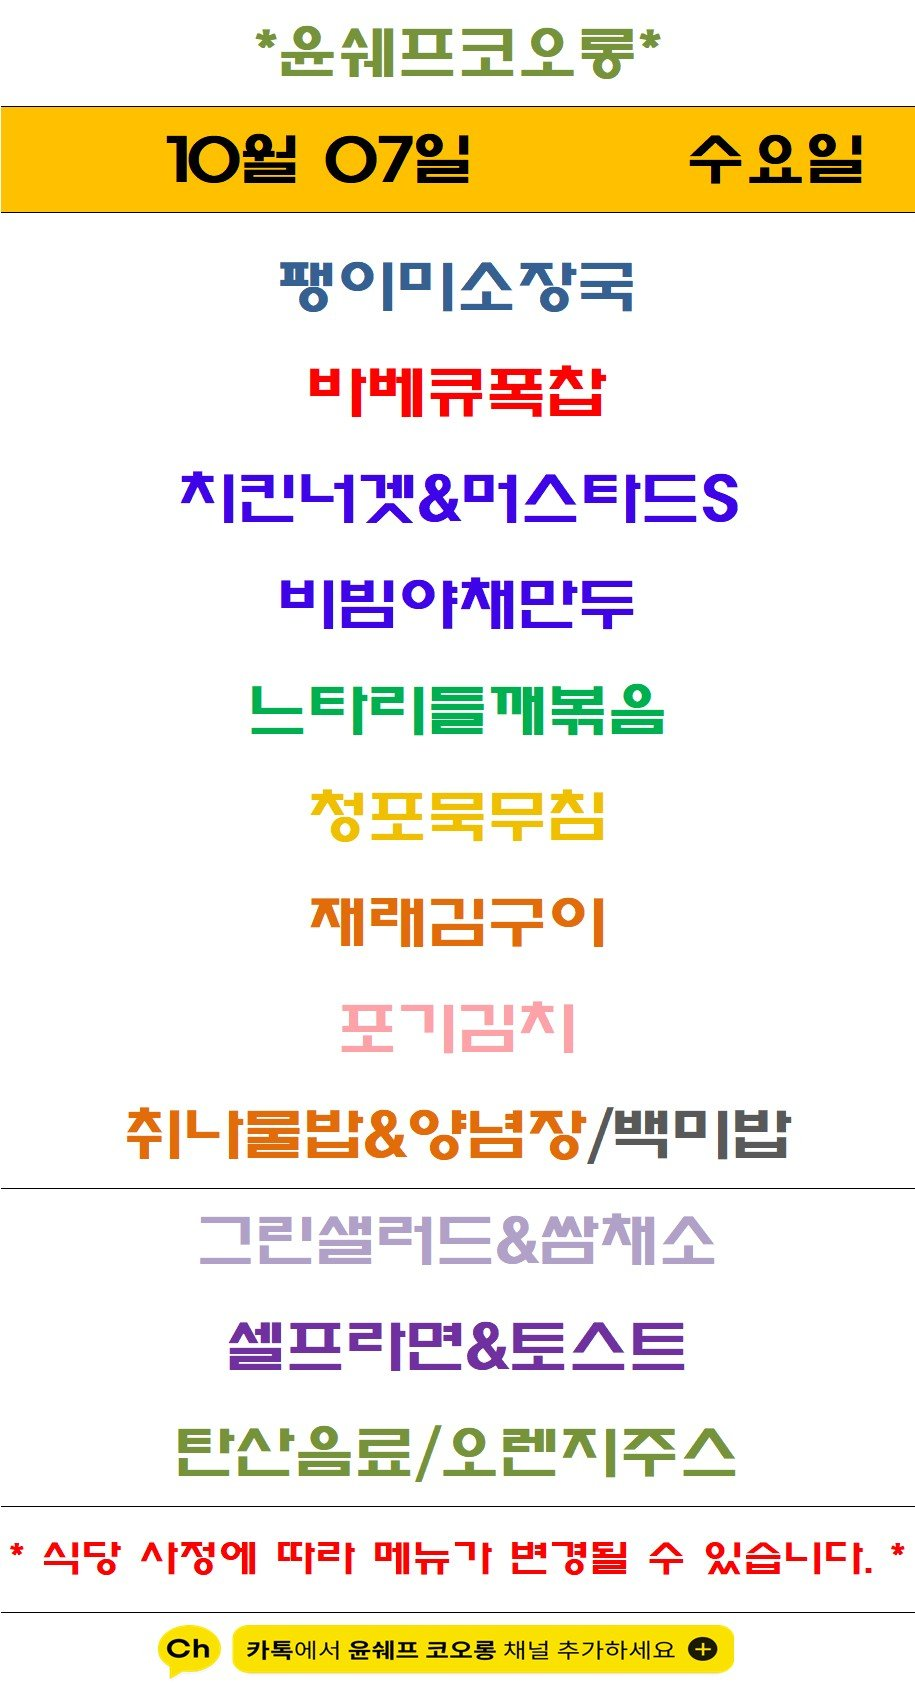
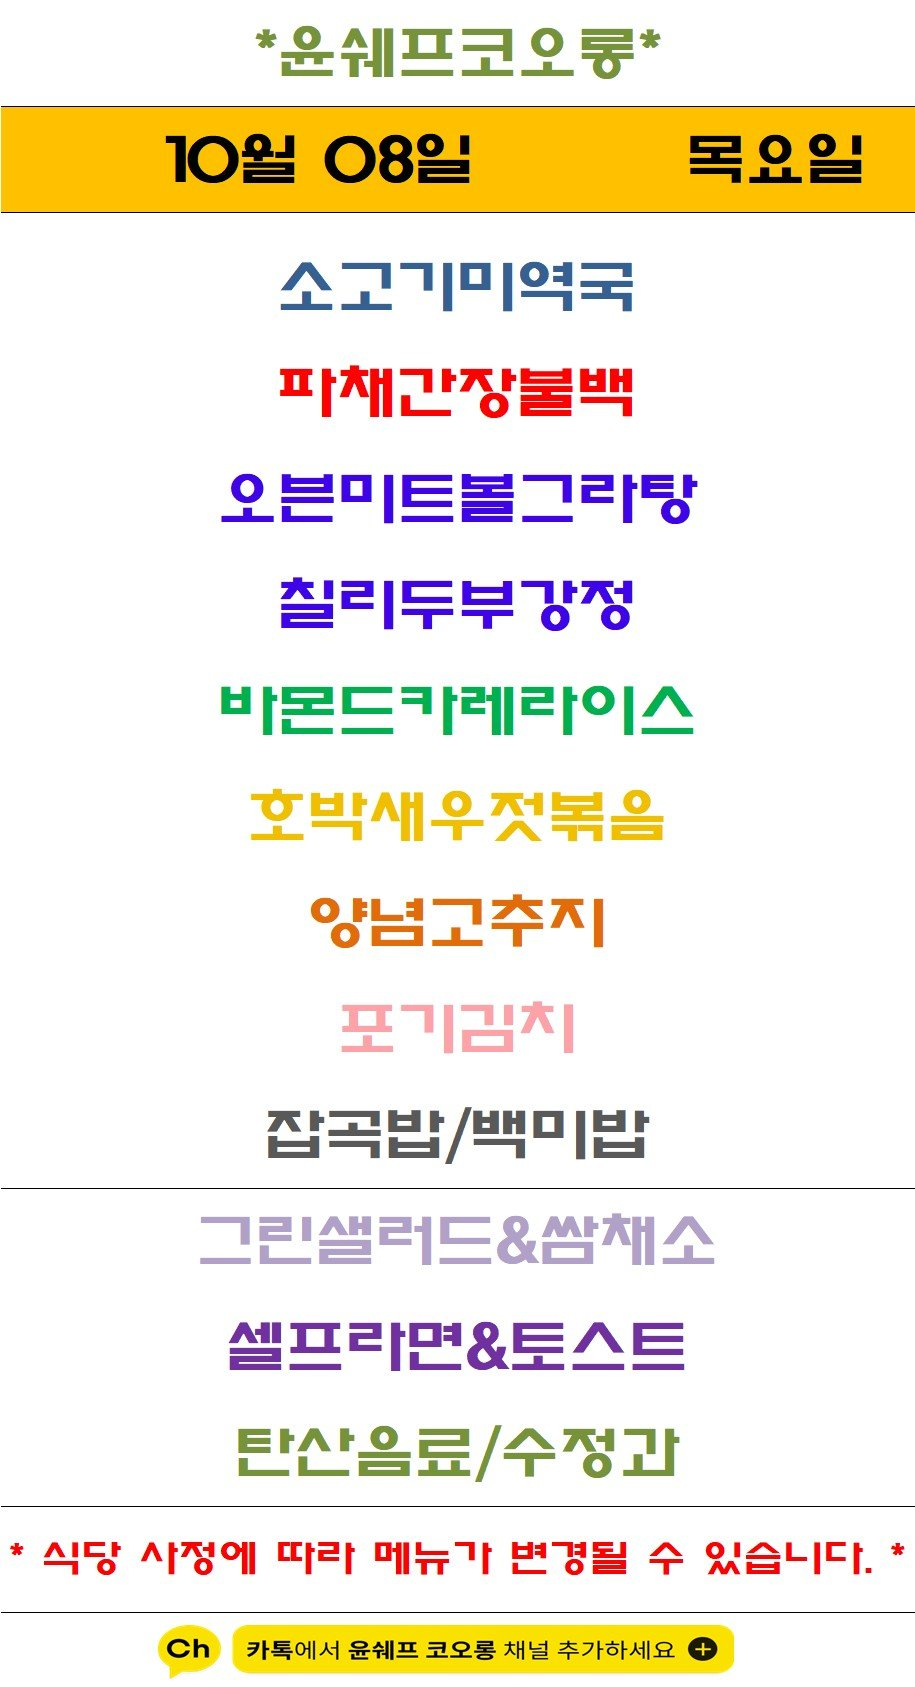
Update menu board assets

diff --git a/guro-menu/index.html b/guro-menu/index.html
@@ -32,7 +32,7 @@
   </header>
   <section class="meta">
     <div><small>기준 날짜</small><strong>2026년 10월 8일 목요일</strong></div>
-    <div><small>최종 갱신</small><strong>2026-10-08 09:03:51</strong></div>
+    <div><small>최종 갱신</small><strong>2026-10-08 09:13:19</strong></div>
     <div><small>등록 식당</small><strong>5개</strong></div>
   </section>
   <div class="notice">공개 카카오 채널의 메뉴 이미지를 자동 수집하고 OCR로 정리합니다. 텍스트에 오타가 있을 수 있으니 식단 이미지를 함께 확인해 주세요.</div>
@@ -103,8 +103,8 @@
           <a class="channel" href="https://pf.kakao.com/_Xxhxkhs" target="_blank" rel="noopener">원본 채널</a>
         </div>
         <img class="menu-image" src="./images/yoon-chef-kolon.png" alt="윤쉐프 코오롱 식단 이미지" loading="lazy">
-        <p class="message">최신 공개 식단 이미지의 텍스트입니다. 날짜는 원본 이미지를 확인해 주세요.</p>
-        <ul><li>팽이미소장국</li><li>바베큐폭잡</li><li>지킨너것&amp;머스타드6</li><li>비빔야채만두</li><li>느타리틀깨볶음</li><li>재래리구이</li><li>취니물밥&amp;양념장/백미밥</li><li>셀프라면&amp;토스트</li><li>탄산음료/오렌지주스</li></ul>
+        
+        <ul><li>소고기미역국</li><li>파채간장불백</li><li>오븐미트볼그라탕</li><li>칠리두부강정</li><li>비몬드카레라이스</li><li>양념고주지</li><li>깝곡밥/백미밥</li><li>셀프라면&amp;토스트</li><li>탄산옴료/수정과</li></ul>
       </article>
   </section>
   <section class="seo" aria-label="검색 정보">한신IT타워 구내식당 자연푸드 구내식당 더이츠푸드 벽산더이룸 윤쉐프 코오롱 한신IT타워 벽산디지털밸리7차 대륭포스트타워1차 벽산디지털밸리1차 코오롱싸이언스밸리1차 서울 구로구 디지털로 272 한신IT타워 지하1층 서울 구로구 디지털로33길 50 벽산디지털밸리7차 지하1층 서울 구로구 디지털로 288 대륭포스트타워1차 지하1층 서울 구로구 디지털로27길 24 벽산디지털밸리1차 지하1층 서울 구로구 디지털로34길 43 코오롱싸이언스밸리1차 지하1층</section>

diff --git a/menu-today/index.html b/menu-today/index.html
@@ -209,7 +209,7 @@
 
     <section class="meta-bar">
       <div class="meta-card"><div class="meta-label">기준 날짜</div><div class="meta-value">2026년 10월 8일 목요일</div></div>
-      <div class="meta-card"><div class="meta-label">최종 가져온 시간</div><div class="meta-value">2026-10-08 09:03:39</div></div>
+      <div class="meta-card"><div class="meta-label">최종 가져온 시간</div><div class="meta-value">2026-10-08 09:13:06</div></div>
       <div class="meta-card"><div class="meta-label">확인 완료</div><div class="meta-value">9개 식당</div></div>
       <div class="meta-card"><div class="meta-label">준비중</div><div class="meta-value">3개 채널</div></div>
     </section>
